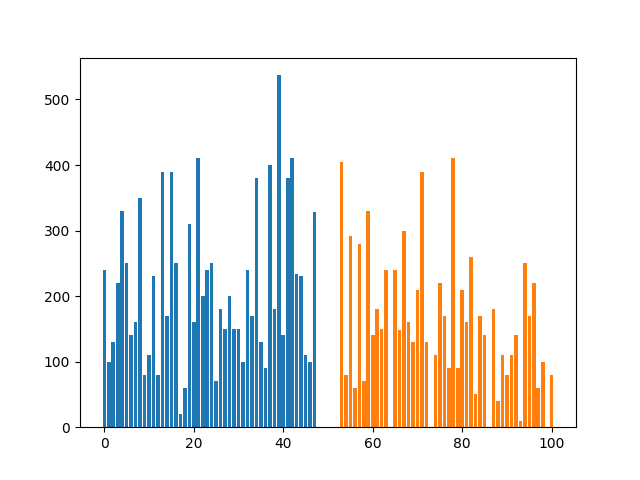
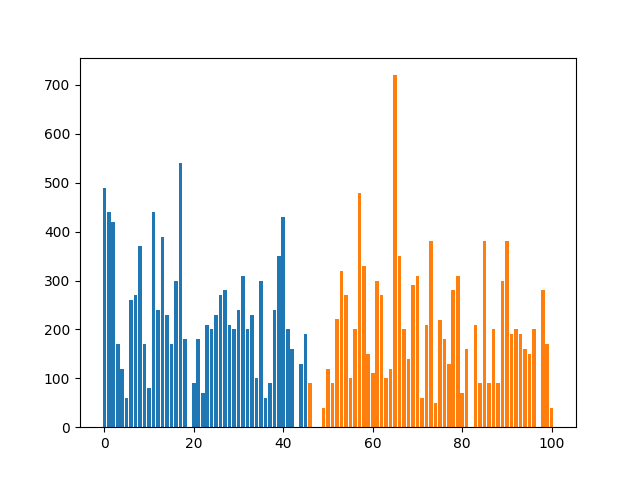
recursive is more bytes??

diff --git a/vex.py b/vex.py
@@ -11,6 +11,23 @@ ask_pq = PriorityQueue("ask_book", box_size, Int(1), RestingOrderType)
 bid_pq = PriorityQueue("bid_book", box_size, Int(0), RestingOrderType)
 
 
+class AccountStorage:
+    def __init__(self, box_name, type: abi.BaseType):
+        self.box_name = box_name
+        self.type = type
+        self.ts = Int(abi.size_of(type.type_spec()))
+
+    def get(self, idx: Int):
+        return BoxExtract(self.box_name, idx * self.ts, self.ts)
+
+    def append(self, type: abi.BaseType) -> abi.Uint64:
+        pass
+
+
+# vet = VexAccount().get_type()
+# accts = AccountStorage("accts", vet)
+
+
 class Vex(Application):
     globals: List[GlobalStorageValue] = [
         # Static Config
@@ -68,90 +85,66 @@ def assign_sequence():
 @Subroutine(TealType.uint64)
 def try_fill_bids(price: Expr, size: Expr):
     return Seq(
-        # If theres nothing in the book, dip
-        If(bid_pq.count() == Int(0), Return(size)),
-        # Setup stuff for looping
-        (unfilled := ScratchVar()).store(size),
+        # If theres nothing in the book or empty size, dip
+        If(Or(bid_pq.count() == Int(0), size == Int(0)), Return(size)),
+        # Peek the book and try to fill
         (ro := RestingOrder()).decode(bid_pq.peek()),
         (resting_price := abi.Uint64()).set(ro.price()),
         (resting_size := abi.Uint64()).set(ro.size()),
-        While(
-            And(
-                bid_pq.count() > Int(0),
-                unfilled.load() > Int(0),
-                resting_price.get() >= price,
-            )
-        ).Do(
+        # Next order not fillable
+        If(resting_price.get() < price, Return(size)),
+        If(
+            # Is it a full or partial of resting
+            resting_size.get() <= size,
             Seq(
+                # Full fill of resting
+                bid_pq.remove(Int(0)),
+                try_fill_bids(price, size - resting_size.get()),
+            ),
+            Seq(
+                # Partial fill of resting
                 (seq := abi.Uint64()).set(ro.sequence()),
-                resting_price.set(ro.price()),
-                resting_size.set(ro.size()),
-                If(
-                    resting_size.get() > unfilled.load(),
-                    Seq(
-                        # Partial fill
-                        (new_size := abi.Uint64()).set(
-                            resting_size.get() - unfilled.load()
-                        ),
-                        ro.set(resting_price, new_size, seq),
-                        bid_pq.update(Int(0), ro),
-                        unfilled.store(Int(0)),
-                    ),
-                    Seq(
-                        # Full fill
-                        bid_pq.remove(Int(0)),
-                        unfilled.store(unfilled.load() - resting_size.get()),
-                        ro.decode(bid_pq.peek()),
-                    ),
-                ),
-            )
+                (new_size := abi.Uint64()).set(resting_size.get() - size),
+                ro.set(resting_price, seq, new_size),
+                # Update resting with new size
+                bid_pq.update(Int(0), ro),
+                # Return 0 for size left fo fill
+                Int(0),
+            ),
         ),
-        unfilled.load(),
     )
 
 
 @Subroutine(TealType.uint64)
 def try_fill_asks(price: Expr, size: Expr):
     return Seq(
-        # If theres nothing in the book, dip
-        If(ask_pq.count() == Int(0), Return(size)),
-        # Setup stuff for looping
-        (unfilled := ScratchVar()).store(size),
+        # If theres nothing in the book or empty size, dip
+        If(Or(ask_pq.count() == Int(0), size == Int(0)), Return(size)),
+        # Peek the book and try to fill
         (ro := RestingOrder()).decode(ask_pq.peek()),
         (resting_price := abi.Uint64()).set(ro.price()),
         (resting_size := abi.Uint64()).set(ro.size()),
-        While(
-            And(
-                ask_pq.count() > Int(0),
-                unfilled.load() > Int(0),
-                resting_price.get() <= price,
-            )
-        ).Do(
+        # Next order not fillable
+        If(resting_price.get() > price, Return(size)),
+        If(
+            # Is it a full or partial of resting
+            resting_size.get() <= size,
             Seq(
+                # Full fill of resting
+                ask_pq.remove(Int(0)),
+                try_fill_asks(price, size - resting_size.get()),
+            ),
+            Seq(
+                # Partial fill of resting
                 (seq := abi.Uint64()).set(ro.sequence()),
-                resting_price.set(ro.price()),
-                resting_size.set(ro.size()),
-                If(
-                    resting_size.get() > unfilled.load(),
-                    Seq(
-                        # Partial fill of resting
-                        (new_size := abi.Uint64()).set(
-                            resting_size.get() - unfilled.load()
-                        ),
-                        ro.set(resting_price, new_size, seq),
-                        ask_pq.update(Int(0), ro),
-                        unfilled.store(Int(0)),
-                    ),
-                    Seq(
-                        # Full fill of resting
-                        ask_pq.remove(Int(0)),
-                        unfilled.store(unfilled.load() - resting_size.get()),
-                        ro.decode(ask_pq.peek()),
-                    ),
-                ),
-            )
+                (new_size := abi.Uint64()).set(resting_size.get() - size),
+                ro.set(resting_price, seq, new_size),
+                # Update resting with new size
+                ask_pq.update(Int(0), ro),
+                # Return 0 for size left fo fill
+                Int(0),
+            ),
         ),
-        unfilled.load(),
     )
 
 

diff --git a/main.py b/main.py
@@ -58,7 +58,6 @@ if __name__ == "__main__":
 
     mid = 50
 
-
     if True:
         app_id, app_addr = client.create(signer, int(4e8))
         print(f"Created {app_id} with app address {app_addr}")
@@ -72,9 +71,9 @@ if __name__ == "__main__":
 
             start, stop = mid - 10, 100
             if not bid:
-                start, stop = 0, mid + 10 
+                start, stop = 0, mid + 10
 
-            price, size = random.randint(start, stop), random.randint(1, 10)  * 10
+            price, size = random.randint(start, stop), random.randint(1, 10) * 10
             filled = client.new_order(signer, [bid, price, size], boxes=boxes)
             print("{} Filled {}".format(side, filled))
 
@@ -102,6 +101,7 @@ if __name__ == "__main__":
         abs.add_order(o)
 
     import matplotlib.pyplot as plt
+
     plt.bar(*bbs.dom())
     plt.bar(*abs.dom())
-    plt.savefig('dom.png')
+    plt.savefig("dom.png")

diff --git a/models.py b/models.py
@@ -23,7 +23,15 @@ class NamedTuple(abi.Tuple):
         return super().type_spec().__str__()
 
 
-# TODO: add address
+class VexAccount(NamedTuple):
+    address: abi.Address
+    balance_a: abi.Uint64
+    balance_b: abi.Uint64
+    reserved_a: abi.Uint64
+    reserved_b: abi.Uint64
+    credits: abi.Uint64
+
+
 class RestingOrder(NamedTuple):
     price: abi.Uint64
     sequence: abi.Uint64
